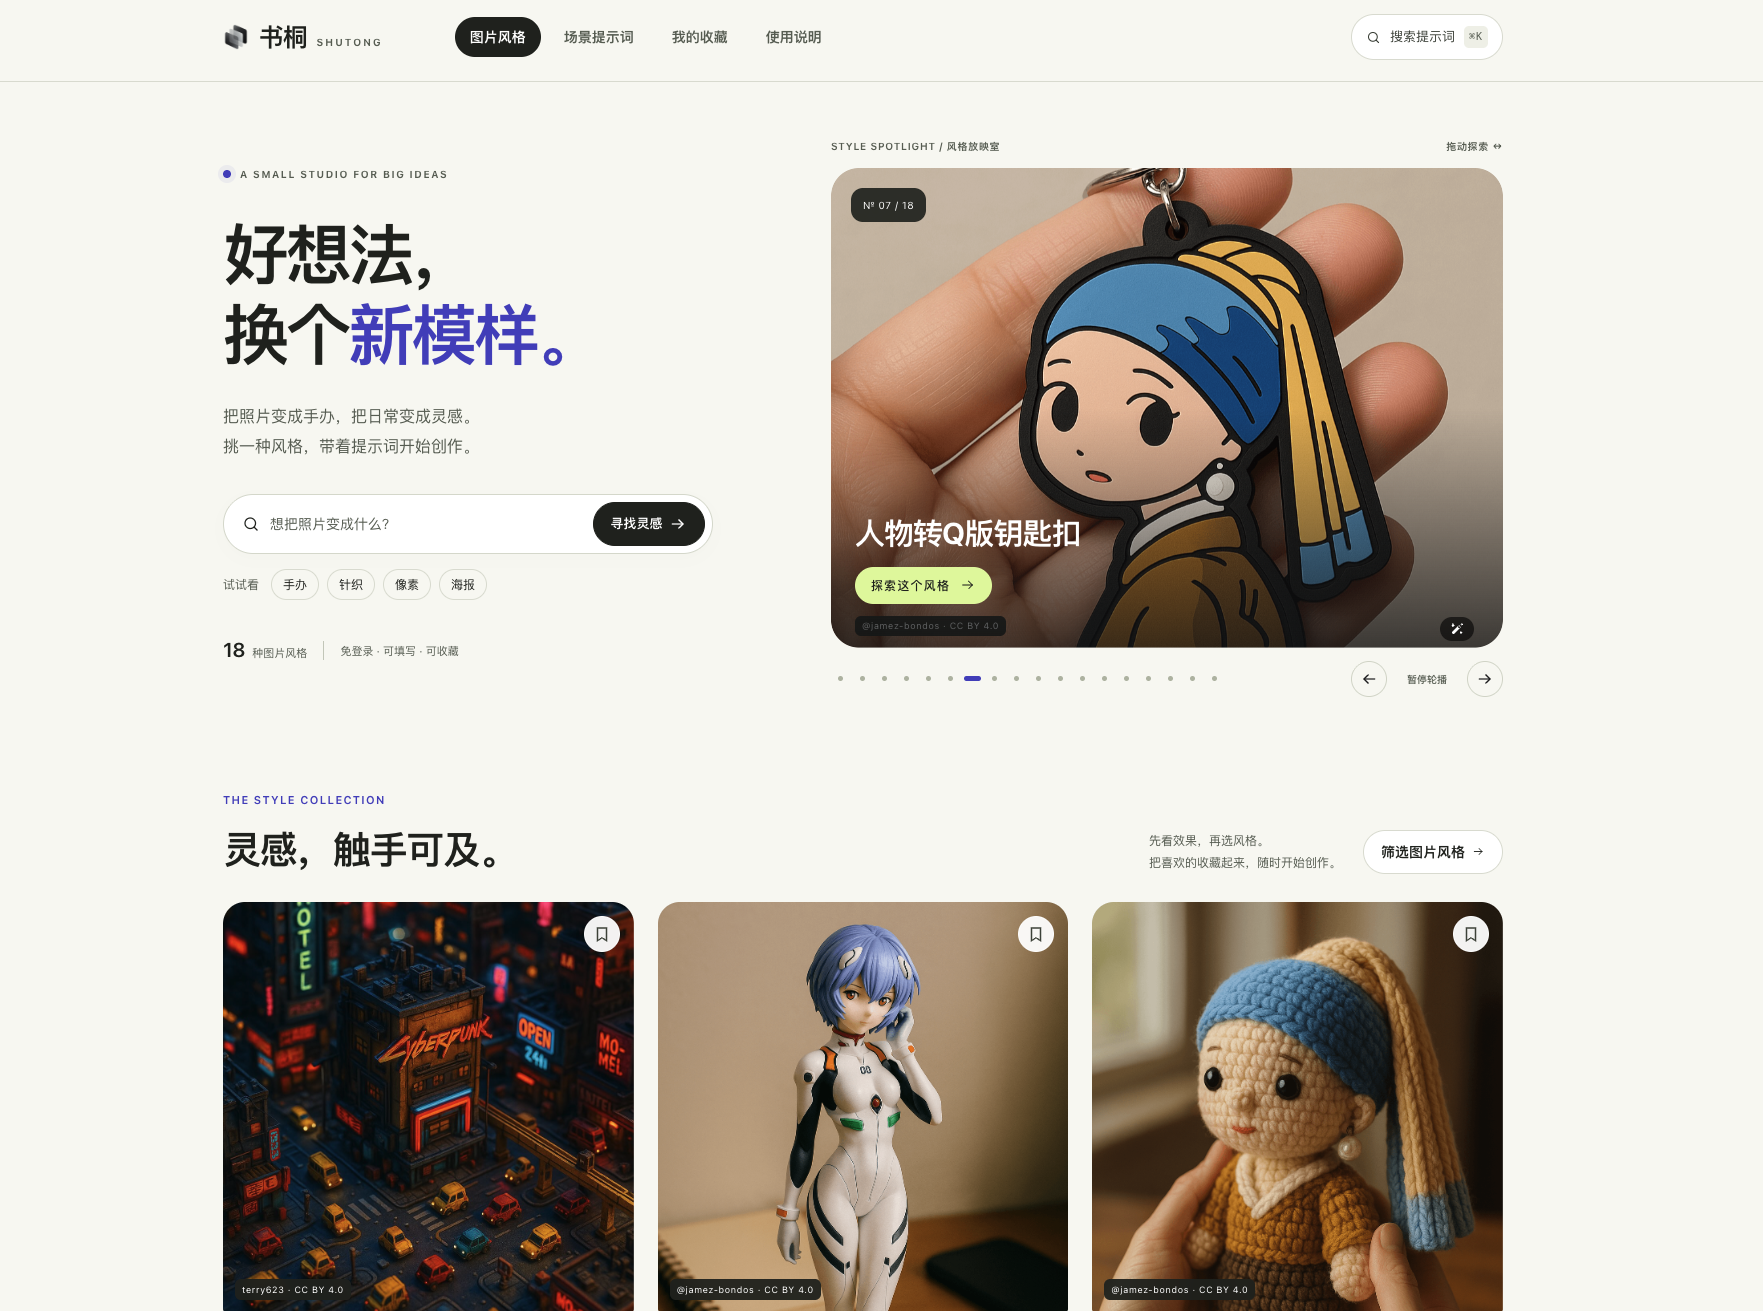
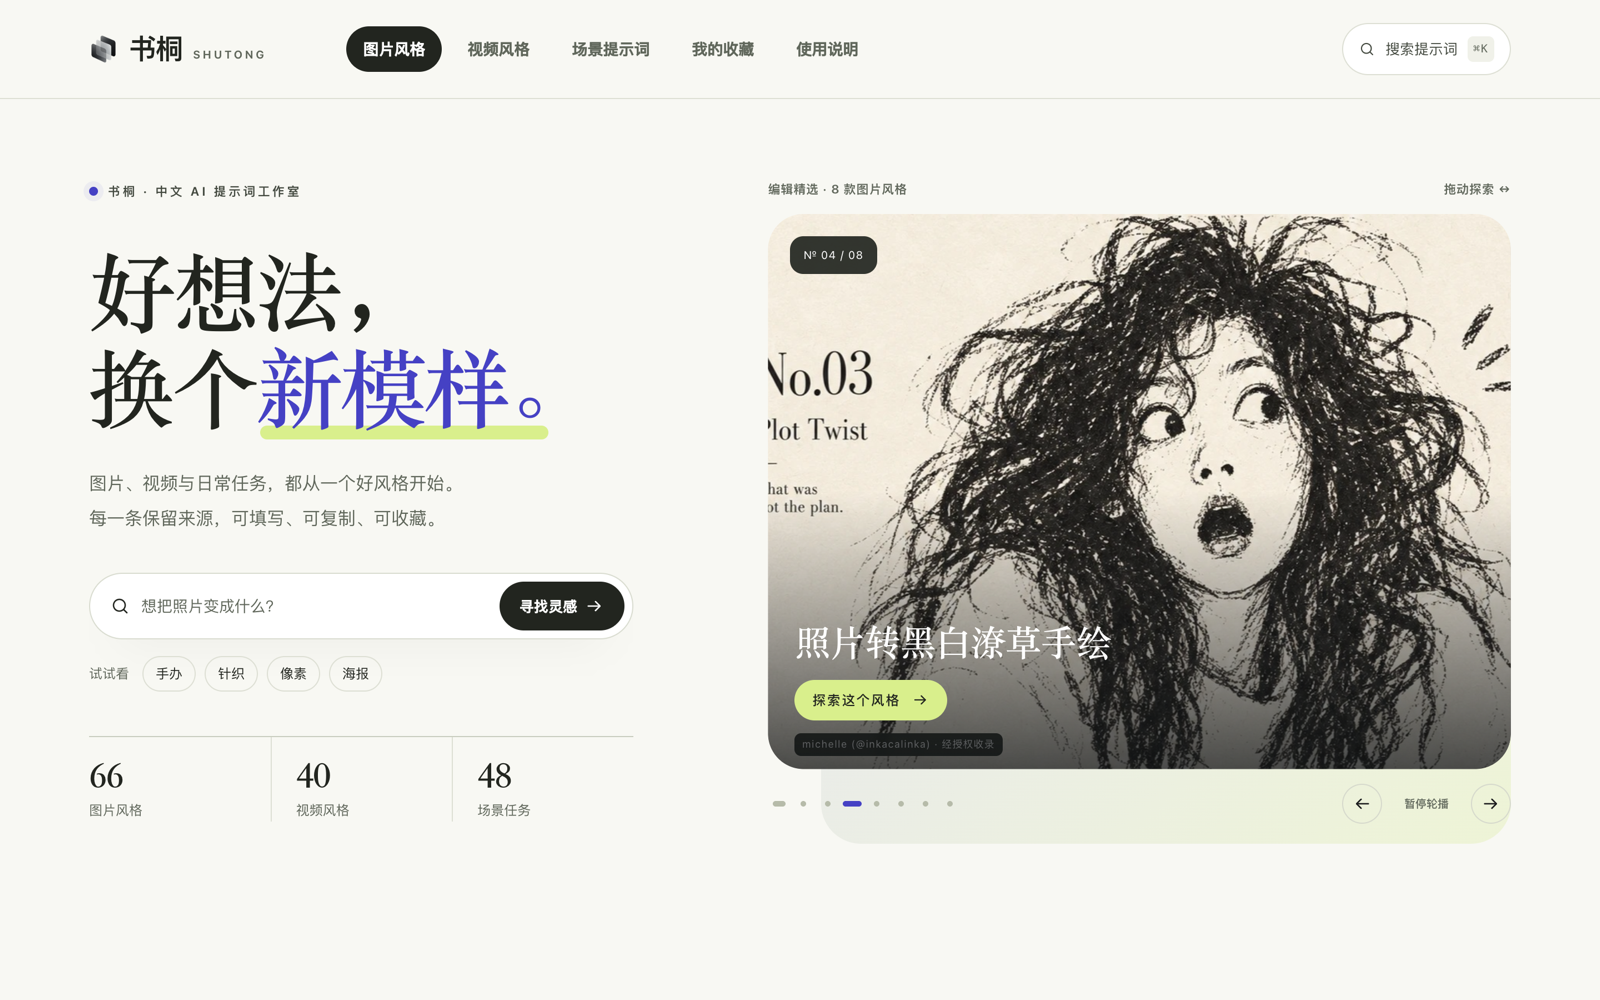
Rewrite README for open-sourcing with new screenshots
Lead with the maintainer's note inviting others to fork and take the
project further, show the redesigned homepage and video detail, add a
concise overview, highlights and a hand-over list, and warn forkers that
third-party content is not covered by the MIT license.

diff --git a/README.md b/README.md
@@ -1,21 +1,55 @@
-# 提示词网站 · AI Prompt Website
+# 书桐 SHUTONG · 中文 AI 提示词网站
 
-书桐 SHUTONG 是一个免登录的开源中文 AI 提示词网站，收录 154 条可填写、复制与导出的提示词模板：66 种图片创作、48 个写作等实用任务，以及 40 种独立的视频风格。支持中英文搜索和本机收藏，可直接使用，也可自行部署。纯静态 HTML / CSS / JavaScript，无需后端或构建。
+> **写在最前面**
+>
+> 我一直希望有人能做出这样一个网站：把好用的图片、视频和日常任务提示词整理清楚，标明出处，打开就能用。
+>
+> 这个仓库是我自己动手做的一次尝试。但说实话，我的精力有限，也没有能力长期运营它：持续收集素材、核对授权、实测效果、回应反馈，都需要比我更多的时间和更专业的能力。
+>
+> 所以我把它完整开源出来。**如果你也想做这件事，欢迎直接 fork、随意修改，做成你自己的网站。希望你能做得比我更好。**
 
-## 在线预览
+[![书桐首页：衬线大标题、图片风格轮播与三类入口](docs/images/homepage.png)](https://bryceyuuu.github.io/ai-prompt-website/)
 
-[打开提示词网站 · 书桐 SHUTONG](https://bryceyuuu.github.io/ai-prompt-website/)
+<p align="center"><a href="https://bryceyuuu.github.io/ai-prompt-website/"><b>在线预览</b></a> · <a href="#如果你想接手">如果你想接手</a> · <a href="#本地预览">本地运行</a> · <a href="THIRD_PARTY_NOTICES.md">素材来源与许可</a></p>
 
-[![提示词网站首页：图片风格轮播、搜索与风格卡片](docs/images/homepage.png)](https://bryceyuuu.github.io/ai-prompt-website/)
+## 这是什么
 
-点击首页截图即可在线体验。截图中的案例图署名与许可见 [第三方内容说明](THIRD_PARTY_NOTICES.md)。
+书桐是一个**免登录、纯静态**的中文 AI 提示词网站，收录 154 条可填写、可复制、可导出的模板：
 
-通过 GitHub Pages 从 `main` 分支发布，仓库更新后会自动部署。
+| 分类 | 数量 | 内容 |
+|---|---|---|
+| 图片风格 | 66 种 | 照片转手办、针织、拼豆、拓印、手绘海报等，每条附来源案例图与作者署名 |
+| 视频风格 | 40 种 | 从 AI 短片与动画作品中拆解材质、运镜和动作规律，附官方视频预览与参考画面 |
+| 场景任务 | 48 个 | 写作、编程、分析、学习、商业、生活各 8 条，说明输入什么、交付什么 |
 
-## 视频风格 · Motion Studies
+整站只有 HTML / CSS / JavaScript，不需要后端、账号、API Key 或构建步骤，下载后直接打开 `index.html` 就能用，也可以部署到任何静态托管服务。
 
-2026-10-22 起：视频列表按「制作方式 / 画面媒介 / 题材气质 / 节奏动态」分组筛选；详情页新增精简版提示词、相近风格与上一个 / 下一个、「实测效果」区。实测区目前如实显示「尚未实测」，有了实测片段后会与原作并排展示并注明模型、日期和所用版本（数据格式见 `assets/js/data-video.js` 中可选的 `tests` 字段）。视频目录改为进入视频页或首页空闲时才加载，图片与场景页不再预先下载约 110 KB（gzip）的视频数据。
+### 亮点
 
+- **来源可追溯**：每条模板保留作者、原帖或仓库链接、许可和核验状态；参考图与本站实测严格区分，不冒充生成效果。
+- **视频风格两档提示词**：约 1000 字的完整版覆盖造型、材质、光照、动作和镜头连续性；约 200 字的精简版适合有字数上限的工具，一键切换。
+- **好找**：中英文搜索与别名、⌘K 全局搜索、按风格方向 / 用途 / 气质 / 来源组合筛选，视频按制作方式、画面媒介、题材气质、节奏动态分组。
+- **好用**：实时填写变量并预览，复制或导出 TXT / Markdown / JSON；收藏只存在本机浏览器，填写内容只在页面内存中，不上传。
+- **认真对待细节**：移动端布局、键盘操作、减少动态效果、加载失败兜底，配有回归测试、变异测试和真实浏览器走查。
+
+[![视频风格详情：官方视频预览、参考画面拆解与完整版 / 精简版提示词](docs/images/video-detail.png)](https://bryceyuuu.github.io/ai-prompt-website/#/video/video-postman-animation)
+
+## 如果你想接手
+
+这些事我想做但没做完，也许正适合你：
+
+- **实测效果**：视频详情页已经留好了「实测效果」区，目前每条都如实写着「尚未实测」。用真实模型跑一遍提示词、把结果和原作并排放上去，是让这个网站真正有用的关键一步（数据格式见 `assets/js/data-video.js` 中可选的 `tests` 字段）。
+- **更多内容**：更多图片 / 视频风格和场景任务。`tools/curate/` 里有收录流水线和来源记录格式，新内容先核对来源与授权再上线。
+- **清理旧样式**：`assets/css/base.css`、`components.css`、`views.css` 是早期视觉层，仍有兼容代码，可以在视觉回归保护下精简。
+- **英文界面、社区投稿、真正的运营**：这些我都没有能力做，但很希望有人做。
+
+**fork 之前请注意素材授权**：代码按 MIT 开源，随便用；但第三方内容**不随代码授权**。Threads 作者的图片和提示词是作者单独授权本站转载的，视频参考画面是少量评论用图，版权归原作者。你在自己的网站上使用这些内容前，需要重新取得授权，或者替换成你自己的内容。详见 [THIRD_PARTY_NOTICES.md](THIRD_PARTY_NOTICES.md)。
+
+如果你做出了更好的版本，欢迎开个 Issue 告诉我，我很乐意在这里放上你的链接。
+
+## 内容与来源
+
+### 视频风格 · Motion Studies
 
 [浏览 40 种视频风格](https://bryceyuuu.github.io/ai-prompt-website/#/video)：从三维动画，到电影摄影、记忆梦境、定格动画、手绘与液态光学。
 
@@ -63,7 +97,7 @@
 
 官方来源、每张图的素材类型、时间和校验值见[视频素材清单](tools/curate/sources/video-style-references.json)。
 
-## Threads 公开图片提示词
+### Threads 公开图片提示词
 
 收录 [@lch1776244](https://www.threads.com/@lch1776244) 的 4 组公开帖子、作者回复中的提示词和 18 张示例图。每组一张风格卡，详情页可逐张放大。搜索 `Chloe_Lai`、`Threads` 或 `lch1776244` 即可找到。原帖与作者回复分开链接，未收录登录后才能访问的历史内容；本次不是全量账号归档。
 
@@ -79,7 +113,7 @@
 
 新增 [@jenniferzhao08](https://www.threads.com/@jenniferzhao08) 的 **「照片转韩式手绘问候海报」1 条提示词与 4 张案例图**，位于首页图片列表首条。保留[作者回复中的完整提示词](https://www.threads.com/@jenniferzhao08/post/DeYRYGulLho)与[原帖](https://www.threads.com/@jenniferzhao08/post/DeYRXkrFFi_)，图片为作者示例，非本站模型实测。搜索 `jenniferzhao08` 或「韩式手绘」即可找到。维护者于 2026-10-12 单独确认该账号的图片、完整提示词、公开网站与 GitHub 转载授权；详见[素材清单](tools/curate/sources/threads-jenniferzhao08.json)及[第三方说明](THIRD_PARTY_NOTICES.md#threads--jenniferzhao08)。
 
-## 当前内容
+### 当前内容
 
 - **66 个图片创作模板**：18 种原有图片转换，以及 6 个 Threads 来源账号的 48 组经授权案例。涵盖创意物件、材质工艺、插画绘画、平面拼贴、微缩场景与摄影光影，包括虚拟换装、产品广告、字母肖像、职业蓝图、拼豆、刺绣、拓印等具体创作方向。
 - **40 个视频风格**：独立画风研究分类，点击卡片直接预览官方视频，附80张来源参考画面、动态风格解析与完整原创风格提示词。
@@ -119,6 +153,8 @@
 | 生活日常 / Everyday tasks | 菜谱整理、服务条款、年度总结、购物对比、recipe extraction、buying guide |
 
 ### English overview
+
+> **A note from the author:** I have always wished someone would build a site like this. This repository is my own attempt, but I don't have the time or the skills to keep running it. It is fully open source so that someone else can take it further. Fork it, change anything, and please make it better than I could. (Code is MIT; third-party images and prompts are not, see [THIRD_PARTY_NOTICES.md](THIRD_PARTY_NOTICES.md).)
 
 Shutong is an open-source **AI prompt website** and **Chinese AI prompt library** with 154 curated **prompt templates**: 66 **image-to-image and text-to-image** prompts, 40 original **video-style prompts**, and 48 practical **LLM task prompts** for writing, coding, research, learning, business and everyday productivity. Browse by category, search Chinese or English aliases, fill template variables with a live preview, save favorites locally, and copy or export prompts. The static website requires no account, API key, backend or build step. It distributes prompts; it does not call AI models or provide a hosted image generator.
 
